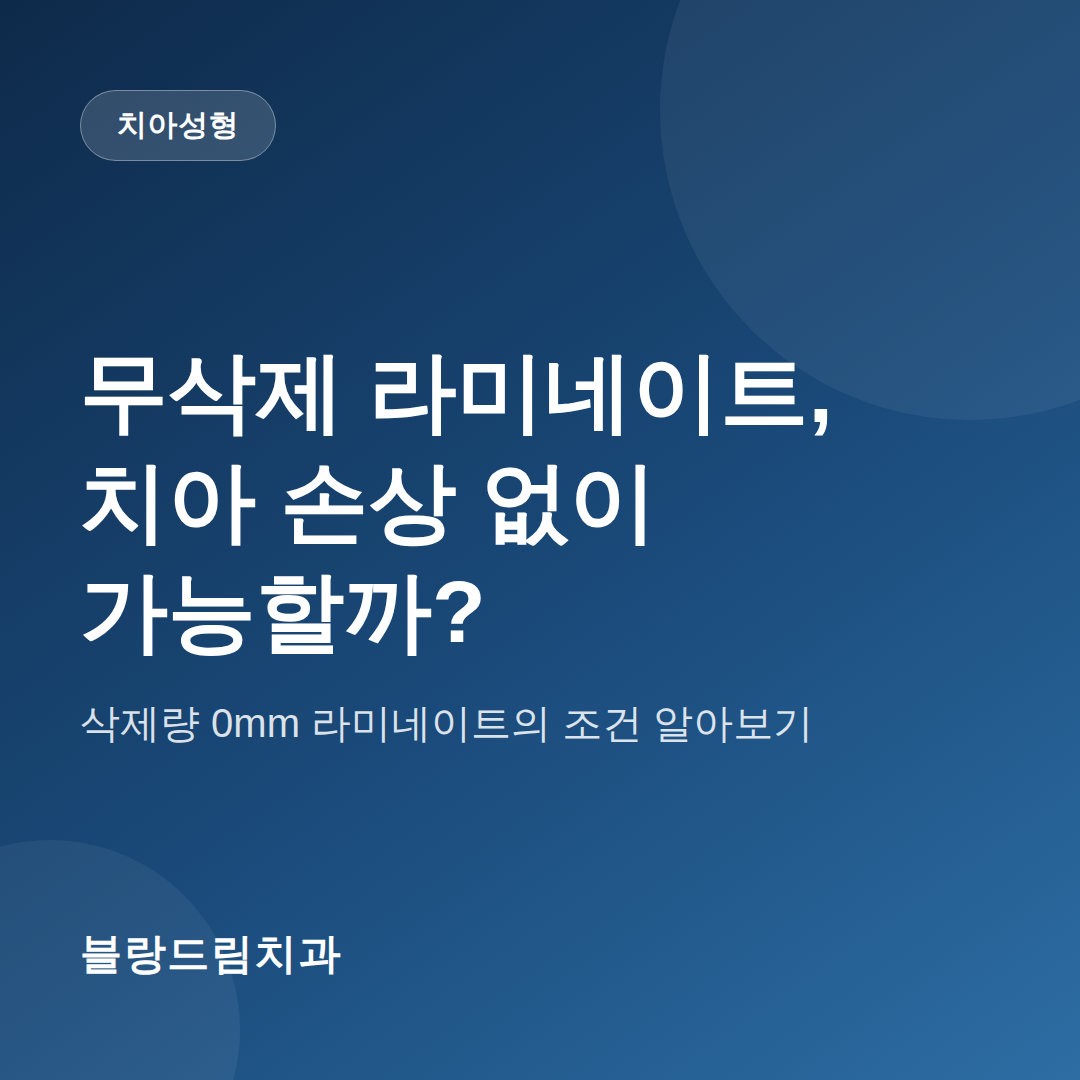
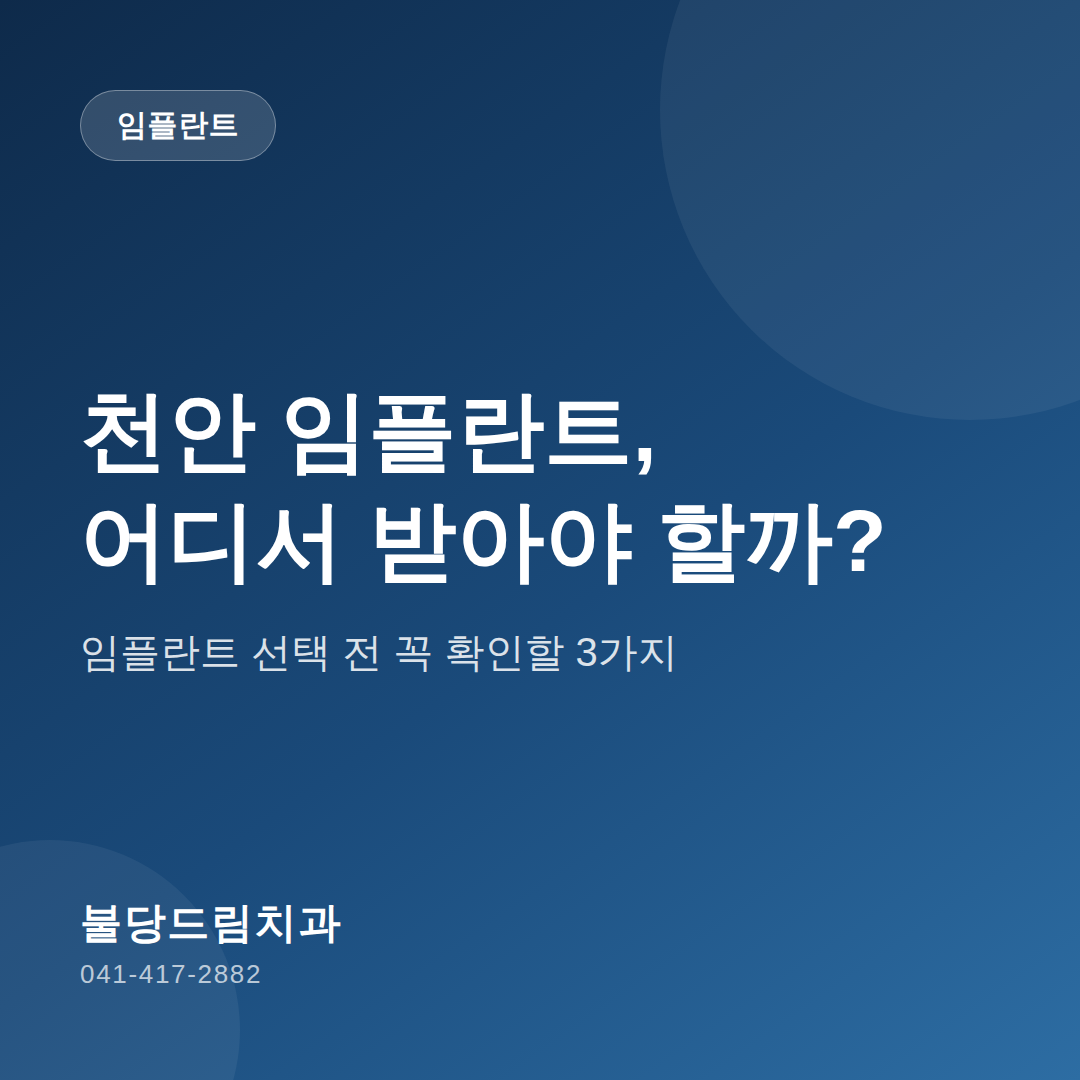
Update clinic profile to Buldang Dream Dental (Cheonan)
Claude-Session: https://claude.ai/code/session_01RCvbiUvvnpEzMmPhknUfeg

Changed region(s): [[0.0611, 0.3056, 0.825, 0.7028], [0.0611, 0.825, 0.3361, 0.9167], [0.0917, 0.0917, 0.2139, 0.1528]]

diff --git a/seo-publisher/README.md b/seo-publisher/README.md
@@ -1,6 +1,6 @@
-# SEO Article Publisher — 블랑드림치과
+# SEO Article Publisher — 불당드림치과
 
-**블랑드림치과** 마케팅용 콘텐츠 제작 도구.
+**불당드림치과** 마케팅용 콘텐츠 제작 도구.
 글 스타일은 **블랑쉬치과 블로그**를 벤치마크로 삼는다.
 
 ## 결과물 (글 1건당 4종 세트)
@@ -17,7 +17,7 @@
 ```
 seo-publisher/
 ├── config/
-│   ├── clinic-profile.json      # 블랑드림치과 정보 (빈 필드 채워야 함)
+│   ├── clinic-profile.json      # 불당드림치과 정보 (빈 필드 채워야 함)
 │   └── benchmark-profile.json   # 블랑쉬치과 (스타일 벤치마크)
 ├── templates/
 │   └── thumbnail.html           # 썸네일 디자인 템플릿 (1080x1080)
@@ -46,7 +46,7 @@ node scripts/make-thumbnail.js \
 ## 작업 순서
 
 1. 참고 글을 `articles/input/`에 넣는다 (또는 채팅으로 전달)
-2. 블랑드림치과 프로필 + 벤치마크 톤 기준으로 채널별 글 생성 → `articles/output/`
+2. 불당드림치과 프로필 + 벤치마크 톤 기준으로 채널별 글 생성 → `articles/output/`
 3. 썸네일 텍스트 뽑아서 PNG 생성
 4. 발행: 네이버 블로그는 공식 API가 없어 수동 업로드(글 복붙), Blogger는 API 발행 가능, 스레드는 Threads API 발행 가능
 
